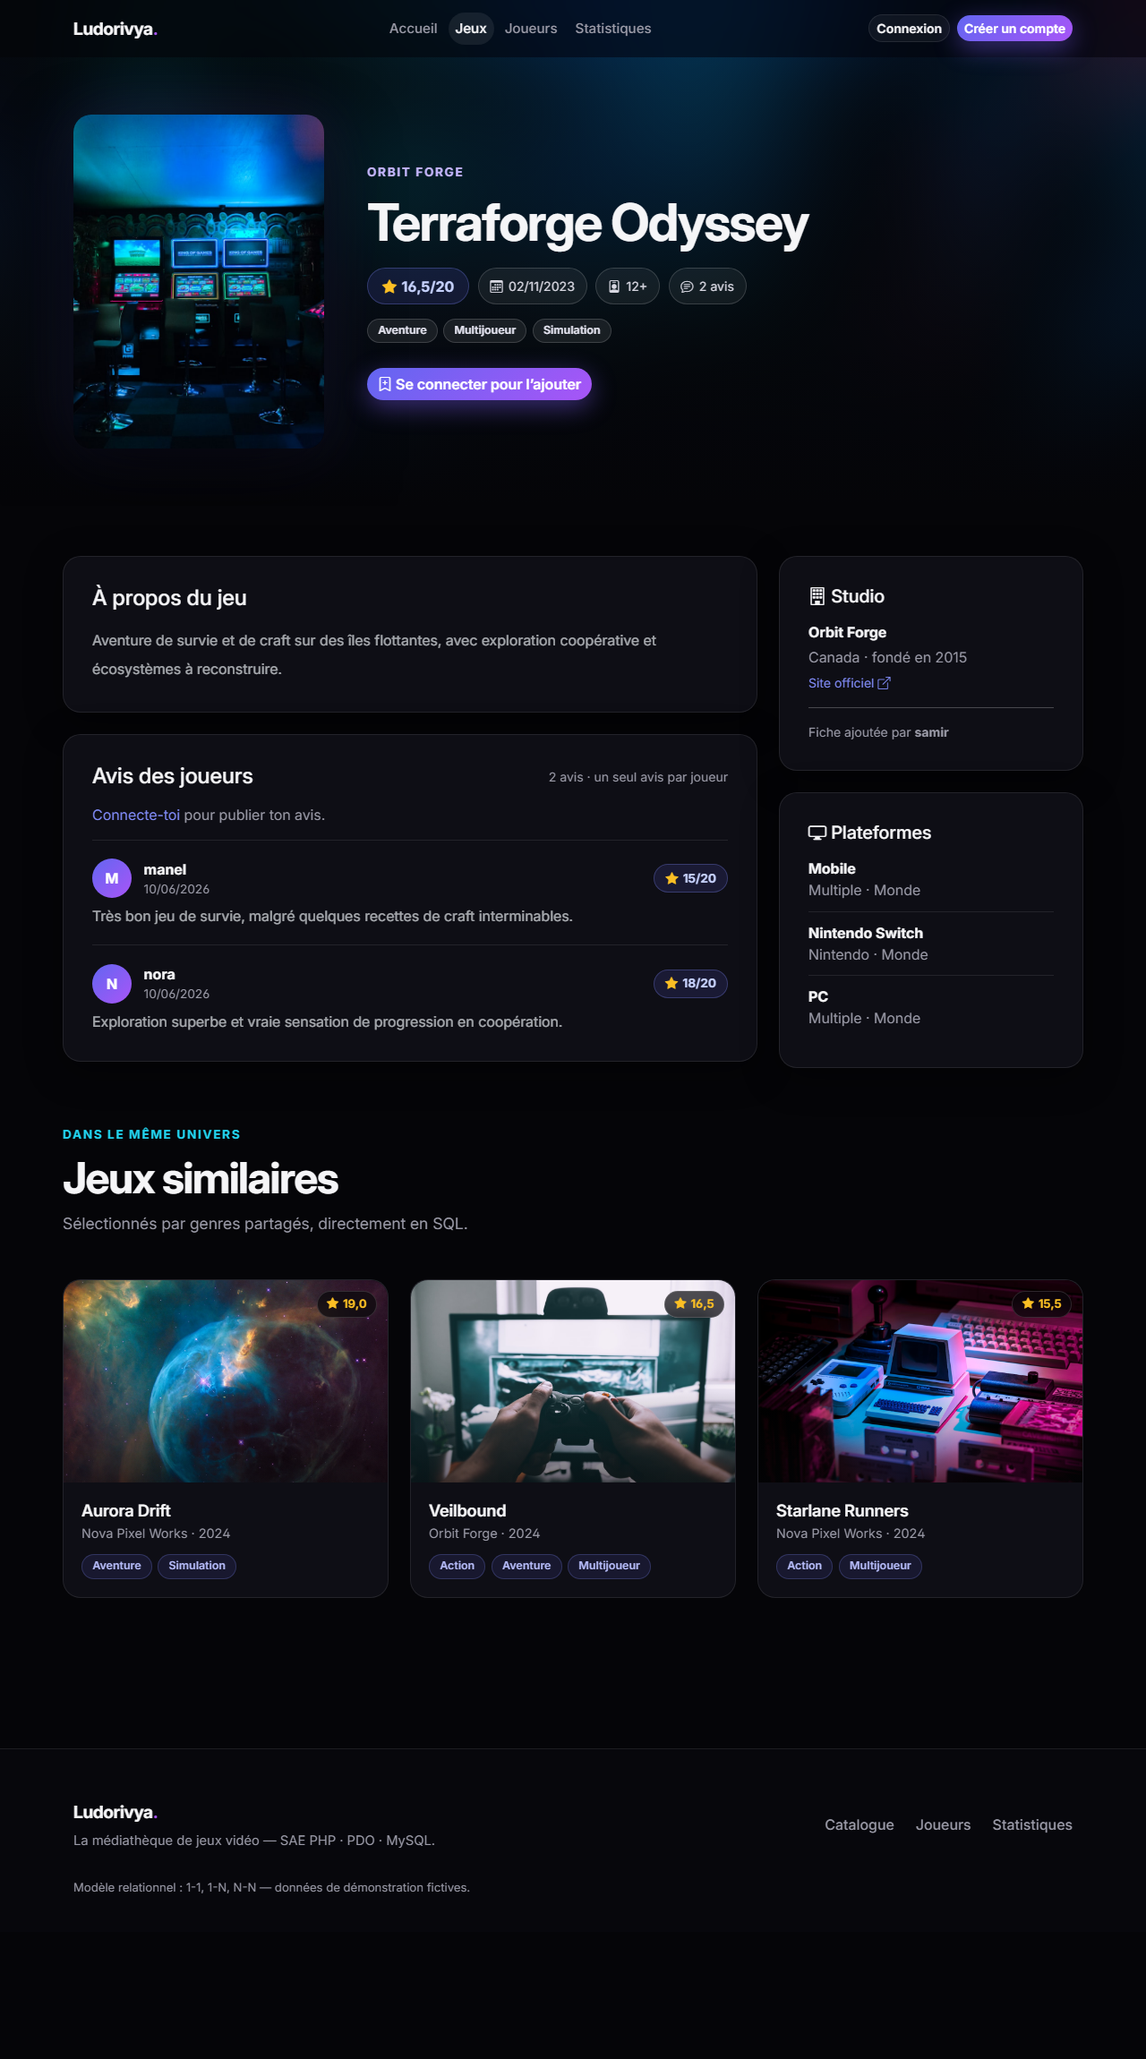
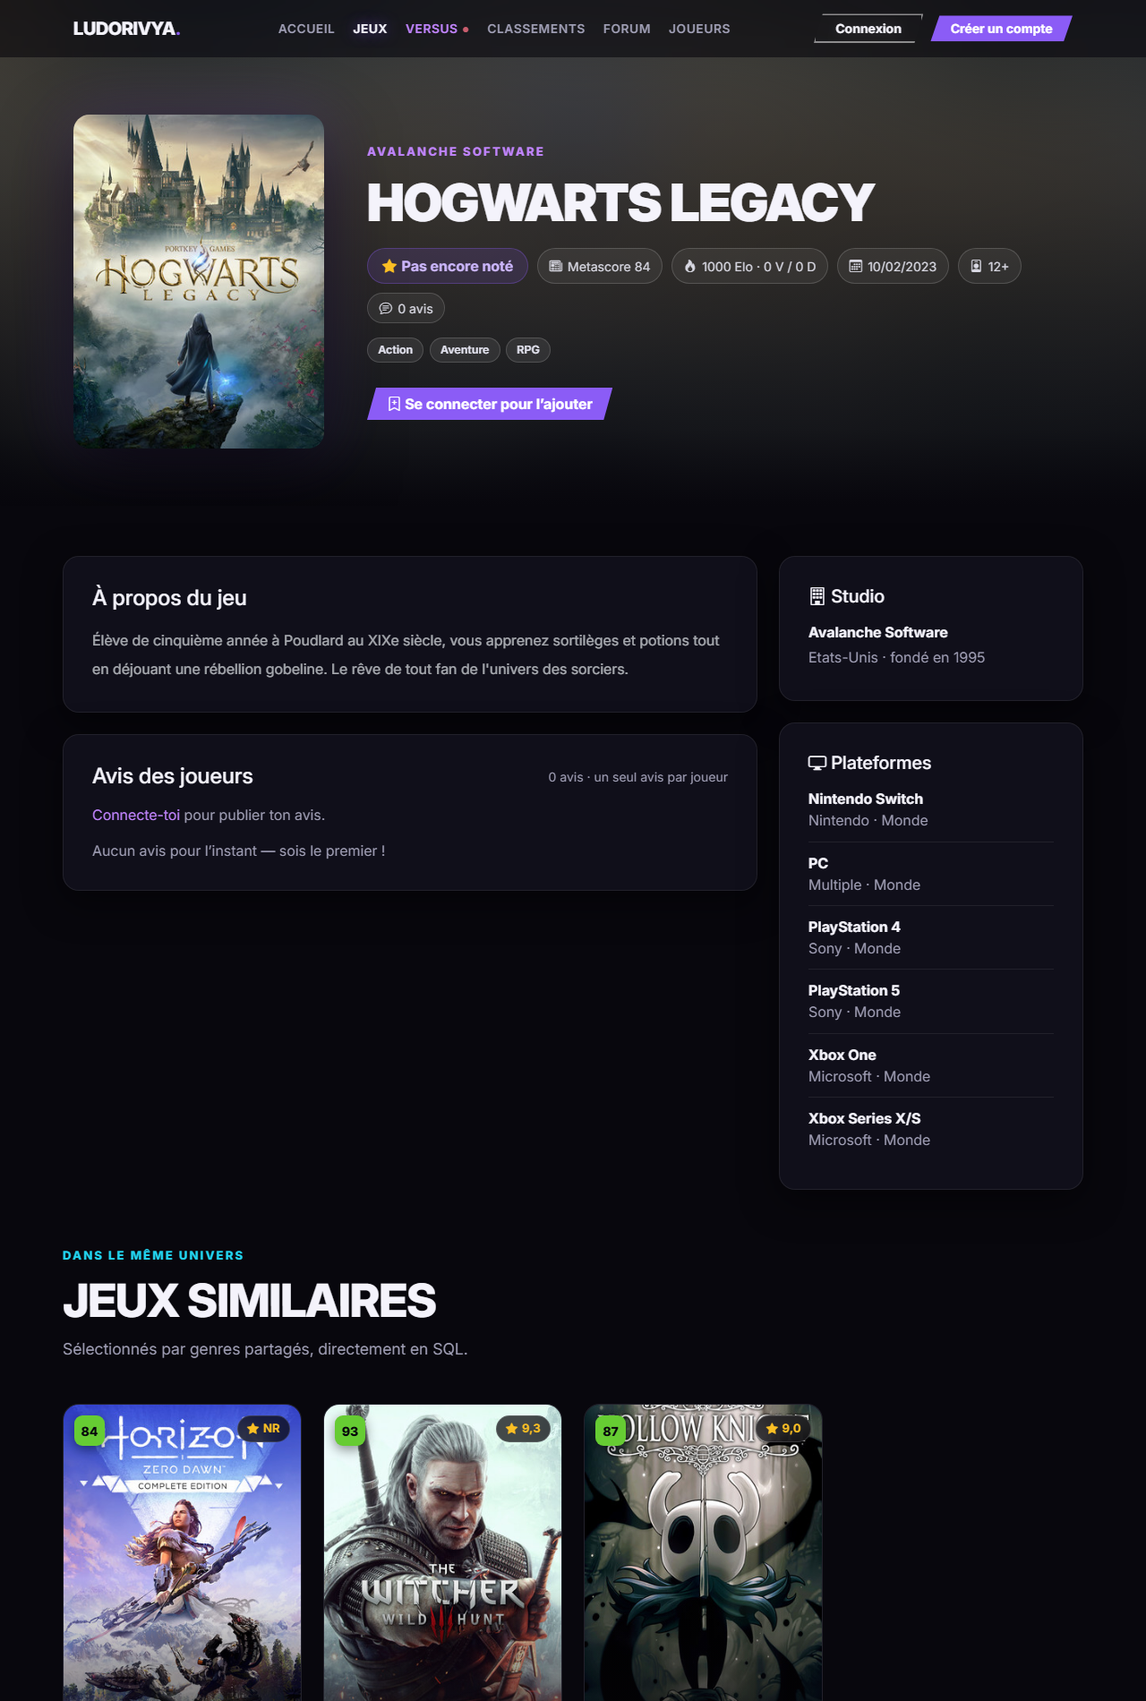
documentation et captures de la version arena

diff --git a/README.md b/README.md
@@ -2,7 +2,7 @@
 
 ![Bannière Ludorivya](docs/images/ludorivya-banner.svg)
 
-**Ludorivya** est une médiathèque de jeux vidéo : une application web dynamique en **PHP 8**, **PDO** et **MySQL/MariaDB**. Tout le monde peut explorer le catalogue ; les joueurs inscrits notent leurs jeux, construisent leur bibliothèque personnelle (statut, temps de jeu) et enrichissent eux-mêmes le catalogue.
+**Ludorivya** est le réseau de tes jeux vidéo : une application web dynamique en **PHP 8**, **PDO** et **MySQL/MariaDB**. Explore un catalogue de **plus de 115 vrais jeux**, note-les **en un clic avec des étoiles**, construis ta bibliothèque, débats sur le **forum**… et surtout, affronte la communauté dans le **mode Versus** : deux jeux face à face, ton vote fait évoluer leur classement Elo en direct.
 
 - **Dépôt** : <https://github.com/neorxprod/ludorivya>
 - **Auteur** : neorxprod
@@ -10,43 +10,82 @@
 
 ## Aperçu
 
-| Accueil | Catalogue |
+| Accueil | Mode Versus |
 | --- | --- |
-| ![Page d'accueil](docs/images/accueil.png) | ![Catalogue](docs/images/catalogue.png) |
+| ![Page d'accueil](docs/images/accueil.png) | ![Mode versus](docs/images/versus.png) |
 
-| Fiche jeu | Statistiques |
+| Catalogue | Classements |
 | --- | --- |
-| ![Fiche d'un jeu](docs/images/fiche-jeu.png) | ![Statistiques](docs/images/statistiques.png) |
+| ![Catalogue](docs/images/catalogue.png) | ![Classements](docs/images/classements.png) |
+
+| Fiche jeu | Forum |
+| --- | --- |
+| ![Fiche d'un jeu](docs/images/fiche-jeu.png) | ![Forum](docs/images/forum.png) |
 
 ## Fonctionnalités
 
+**Le mode Versus (le cœur du concept) :**
+
+- deux jeux tirés au sort s'affrontent, tu votes pour ton préféré ;
+- le **score Elo** des deux jeux est recalculé par le serveur dans une transaction (formule Elo, K = 32) ;
+- chaque vote rapporte **5 XP**, enchaîne les duels et fais grimper ta série ;
+- anti-triche : le serveur ne valide un vote que pour la paire qu'il a lui-même servie, avec un délai minimal entre deux votes ;
+- tout est animé : cartes qui claquent, deltas Elo flottants, compteurs, sans recharger la page (fetch + JSON).
+
 **Pour tous les visiteurs :**
 
-- catalogue avec recherche (titre, description, studio), filtres par **genre** et **plateforme**, tri et **pagination** ;
-- fiche détaillée de chaque jeu : studio, plateformes (avec région de sortie), genres, avis des joueurs ;
-- profils publics des joueurs et activité des bibliothèques (sans données privées) ;
-- statistiques en direct : répartitions par genre/plateforme, top 5 des jeux, joueurs les plus actifs.
+- catalogue de ~115 vrais jeux : jaquettes, **note presse (metascore)**, note des joueurs, studio, genres, plateformes ;
+- recherche, filtres par **genre** et **plateforme**, tri (récents / mieux notés / alphabétique), **pagination** ;
+- **classements** : Elo communautaire (podium), jeux les mieux notés, joueurs les plus actifs ;
+- fiche détaillée par jeu : description, bilan de duels (victoires/défaites), avis, **jeux similaires** (par genres partagés) ;
+- statistiques en direct issues de la base (répartitions, totaux).
+
+**Le forum (comme au bon vieux temps) :**
+
+- des sujets de discussion, optionnellement rattachés à un jeu du catalogue ;
+- réponses, suppression de ses propres messages, XP à la clé (+15 sujet, +5 réponse) ;
+- tri par dernière activité, compteur de réponses.
 
 **Pour les joueurs connectés :**
 
-- inscription / connexion sécurisées (mot de passe haché, anti force brute) ;
-- publier, modifier et supprimer **son** avis (un seul par jeu) ;
-- bibliothèque personnelle : ajouter un jeu, changer son statut (souhaité / en cours / terminé / abandonné), suivre ses heures de jeu, retirer un jeu ;
-- **ajouter un jeu au catalogue**, puis modifier ou supprimer **ses propres** fiches ;
+- inscription / connexion sécurisées, **XP et niveaux** (1 niveau tous les 250 XP) ;
+- noter un jeu **directement aux étoiles** (1 à 10), commentaire facultatif (+20 XP) ;
+- bibliothèque personnelle : statut (souhaité / en cours / terminé / abandonné), heures de jeu (+10 XP) ;
+- ajouter un jeu au catalogue (+30 XP), modifier/supprimer **ses propres** fiches ;
 - modifier son profil public (bio, plateforme préférée).
 
 ## Technologies
 
 | Partie | Technologie |
 | --- | --- |
-| Interface | HTML, CSS, Bootstrap 5 (chargé en local) + design system personnalisé |
-| Interactions | JavaScript vanilla : validation des formulaires, animations au scroll, compteurs |
+| Interface | HTML, CSS, Bootstrap 5 (local) + design system personnalisé (effets « flamme », liquid glass, particules) |
+| Interactions | JavaScript vanilla : versus en fetch/JSON, validation, animations au scroll, compteurs, cartes 3D |
 | Serveur | PHP 8.x |
 | Base de données | MySQL / MariaDB |
 | Accès BDD | PDO (requêtes préparées natives, transactions) |
 | Versionnage | Git + GitHub |
 
-Le site fonctionne **sans connexion internet** : Bootstrap, les icônes, la police Inter et les jaquettes de démonstration sont stockés en local dans `public/assets/`.
+Le site fonctionne **sans connexion internet** : Bootstrap, les icônes, la police Inter et les ~115 jaquettes sont stockés en local dans `public/assets/`.
+
+> Les jaquettes et noms de jeux appartiennent à leurs éditeurs respectifs et sont utilisés ici à des fins pédagogiques uniquement (projet universitaire non commercial). Les descriptions sont rédigées originales, et les metascores sont des approximations.
+
+## Comment le catalogue a été construit (le pipeline)
+
+Le catalogue n'est pas saisi à la main dans le SQL : il est **généré par un pipeline reproductible**, versionné dans [`database/dataset/`](database/dataset/) :
+
+1. **`games.json`** — le dataset source : pour chaque jeu, le titre réel, le studio (et son pays/année), la date de sortie, le PEGI, 1-3 genres, les plateformes, un metascore approximatif, une **description française originale** et l'**appid Steam** du jeu.
+2. **`fetch_covers.ps1`** — télécharge une seule fois les jaquettes officielles (600×900) depuis le **CDN public de Steam** (`cdn.cloudflare.steamstatic.com/steam/apps/<appid>/library_600x900.jpg`) vers `public/assets/img/covers/`. Le téléchargement sert aussi de **validation** : un appid faux ne renvoie pas d'image, et le jeu est écarté.
+3. **`build_seed.php`** — génère `database/schema.sql` complet : les 13 tables, les ~115 jeux avec leurs liaisons genres/plateformes, les comptes de démonstration, les avis, les sujets de forum, et une **simulation de 150 duels Elo** (graine aléatoire fixe → résultat reproductible, le favori au metascore gagne 70 % du temps) pour que le classement Versus soit crédible dès l'import.
+
+Pour régénérer la base de zéro :
+
+```bat
+cd database\dataset
+powershell -File fetch_covers.ps1
+php build_seed.php
+```
+
+L'application, elle, ne dépend **d'aucune API externe** : tout est servi en local depuis MySQL.
 
 ## Relations SQL demandées
 
@@ -60,10 +99,11 @@ Le sujet demande au minimum une relation 1-1, une relation 1-N et une relation N
 
 Le schéma va plus loin :
 
-- `games` ↔ `genres` (2e N-N, sert au filtre par genre) ;
-- `users` ↔ `games` via `library_entries` (N-N **porteuse d'attributs** : statut, heures) ;
+- `games` ↔ `genres` (2e N-N, filtre par genre + jeux similaires) ;
+- `users` ↔ `games` via `library_entries` (N-N **porteuse** : statut, heures) ;
 - `users` ↔ `games` via `reviews` (un avis par joueur et par jeu, garanti par `UNIQUE`) ;
-- `users` → `games` via `created_by` (autorisations : seul l'auteur d'une fiche peut la modifier/supprimer).
+- `users` ↔ `games` via `duels` (N-N porteuse **orientée** : vainqueur/perdant, alimente le classement Elo) ;
+- `users` → `games` via `created_by` (seul l'auteur d'une fiche peut la modifier/supprimer).
 
 ![Schéma relationnel](docs/images/schema-relations.svg)
 
@@ -82,7 +122,7 @@ Détails table par table : [docs/SCHEMA_RELATIONNEL.md](docs/SCHEMA_RELATIONNEL.
    C:\xampp\mysql\bin\mysql.exe -u root --default-character-set=utf8mb4 < database\schema.sql
    ```
 
-3. **Relier le projet à Apache** (lien symbolique, à lancer dans un terminal administrateur) :
+3. **Relier le projet à Apache** (lien symbolique, terminal administrateur) :
 
    ```bat
    mklink /J C:\xampp\htdocs\ludorivya "C:\chemin\vers\LUDORIVYA"
@@ -111,7 +151,8 @@ LUDORIVYA/
   config/
     database.example.php      <- modèle de configuration (le vrai est gitignoré)
   database/
-    schema.sql                <- création de la base + données de démonstration
+    schema.sql                <- création de la base + ~115 vrais jeux + 150 duels simulés
+    dataset/                  <- le pipeline du catalogue (games.json + scripts)
   docs/
     SCHEMA_RELATIONNEL.md     <- le schéma expliqué table par table
     BONUS_NOSQL.md            <- bonus : limites du relationnel + MongoDB
@@ -120,7 +161,11 @@ LUDORIVYA/
   public/                     <- racine web
     index.php                 <- accueil
     games.php                 <- catalogue (recherche, filtres, tri, pagination)
-    game.php                  <- fiche d'un jeu + avis + bibliothèque
+    game.php                  <- fiche d'un jeu + avis + bibliothèque + jeux similaires
+    versus.php / duel_store.php  <- mode versus (votes Elo en fetch/JSON)
+    rankings.php              <- classements (Elo, notes, joueurs)
+    forum.php / topic.php     <- forum (sujets + reponses)
+    topic_store.php / reply_store.php / topic_delete.php / reply_delete.php
     create.php / edit.php     <- formulaires d'ajout / modification d'un jeu
     game_store.php / game_update.php / game_delete.php
     review_store.php / review_delete.php
@@ -133,7 +178,7 @@ LUDORIVYA/
   src/
     bootstrap.php             <- session, CSRF, connexion PDO
     Database.php              <- connexion PDO centralisée
-    functions.php             <- helpers (validation, sécurité, rendu)
+    functions.php             <- helpers (validation, sécurité, XP/niveaux, rendu)
 ```
 
 Convention : chaque formulaire a sa page d'affichage (`page.php`) et son traitement POST séparé (`*_store.php`, `*_update.php`, `*_delete.php`).
@@ -141,14 +186,12 @@ Convention : chaque formulaire a sa page d'affichage (`page.php`) et son traitem
 ## Sécurité appliquée
 
 - **Requêtes préparées PDO partout** (`ATTR_EMULATE_PREPARES = false`) — aucune concaténation de données utilisateur dans le SQL.
-- **Jeton CSRF** vérifié (`hash_equals`) sur tous les formulaires POST, y compris la déconnexion.
-- Mots de passe : `password_hash()` / `password_verify()`, jamais stockés en clair, **anti force brute** (pause après 5 échecs).
-- Sessions durcies : cookie `HttpOnly` + `SameSite=Lax`, `session_regenerate_id()` après connexion et inscription.
-- Échappement HTML systématique avec `e()` (`htmlspecialchars`).
-- **Validation côté serveur** de toutes les entrées (types, bornes, longueurs, dates réelles, URLs, ids existants en base), même quand JavaScript valide déjà côté client.
-- Autorisations vérifiées côté serveur : on ne modifie que **ses** avis, **sa** bibliothèque, **ses** fiches de jeux.
-- Redirections restreintes aux pages internes (anti open redirect).
-- Erreurs techniques journalisées (`error_log`), jamais affichées aux visiteurs.
+- **Jeton CSRF** vérifié (`hash_equals`) sur tous les POST, y compris les votes du versus et la déconnexion.
+- **Serveur autoritaire sur le versus** : la paire de jeux est choisie et mémorisée côté serveur, le calcul Elo et l'XP sont faits côté serveur, délai minimal entre deux votes.
+- Mots de passe : `password_hash()` / `password_verify()`, **anti force brute** (pause après 5 échecs).
+- Sessions durcies : cookie `HttpOnly` + `SameSite=Lax`, `session_regenerate_id()` après connexion/inscription.
+- Échappement HTML systématique (`e()`), validation serveur de toutes les entrées, autorisations vérifiées côté serveur.
+- Redirections restreintes aux pages internes (anti open redirect), erreurs techniques journalisées jamais affichées.
 
 ## Vérification automatique
 
@@ -156,15 +199,18 @@ Convention : chaque formulaire a sa page d'affichage (`page.php`) et son traitem
 
 ## Bonus NoSQL
 
-[docs/BONUS_NOSQL.md](docs/BONUS_NOSQL.md) décrit un scénario de montée en charge (millions de jeux, milliards d'avis), identifie les requêtes du projet qui deviendraient coûteuses, et propose une alternative conceptuelle avec MongoDB (documents dénormalisés pour la recherche et les statistiques), sans implémentation.
+[docs/BONUS_NOSQL.md](docs/BONUS_NOSQL.md) décrit un scénario de montée en charge (millions de jeux, milliards d'avis et de votes versus), identifie les requêtes du projet qui deviendraient coûteuses, et propose une alternative conceptuelle avec MongoDB, sans implémentation.
 
 ## État du projet
 
-- [x] Base relationnelle (1-1, 1-N, 2× N-N, 2× N-N porteuses).
+- [x] Base relationnelle 13 tables (1-1, 1-N, 2× N-N, 3× N-N porteuses dont les duels, forum).
+- [x] Forum : sujets liés aux jeux, réponses, modération de ses messages.
+- [x] Notes aux étoiles en un clic, commentaire facultatif.
+- [x] Catalogue de ~115 vrais jeux (jaquettes locales, metascore, descriptions originales).
+- [x] Mode Versus : votes Elo en direct, XP, séries, anti-triche serveur.
+- [x] Classements : Elo (podium), notes, joueurs.
 - [x] CRUD complet : jeux, avis, bibliothèque, profil.
 - [x] Recherche, filtres par genre et plateforme, tri, pagination.
-- [x] Authentification sécurisée + CSRF sur tous les formulaires.
-- [x] Interface Bootstrap 5 + design system, fonctionne hors ligne.
-- [x] JavaScript : validation, animations au scroll, compteurs.
-- [x] Documentation (README, schéma, bonus NoSQL).
-- [x] CI de vérification syntaxique.
+- [x] Authentification sécurisée + CSRF partout.
+- [x] Design « gaming premium » : effets flamme, particules, cartes 3D, fonctionne hors ligne.
+- [x] Documentation (README, schéma, bonus NoSQL) + CI.

diff --git a/docs/SCHEMA_RELATIONNEL.md b/docs/SCHEMA_RELATIONNEL.md
@@ -2,9 +2,9 @@
 
 ## Objectif
 
-Ludorivya est une médiathèque de jeux vidéo : jeux, studios, plateformes, genres, avis des joueurs et bibliothèques personnelles.
+Ludorivya est le réseau de tes jeux vidéo : un catalogue de ~115 vrais jeux, des avis, des bibliothèques personnelles, et un **mode versus** où les votes de la communauté font évoluer un classement Elo.
 
-Le schéma complet est dans [`database/schema.sql`](../database/schema.sql) (10 tables).
+Le schéma complet est dans [`database/schema.sql`](../database/schema.sql) (13 tables), généré par le pipeline documenté dans [`database/dataset/`](../database/dataset/).
 
 ## Diagramme
 
@@ -17,6 +17,7 @@ games     (N) ---- (N) platforms  via game_platforms  <- N-N demandee (PK compos
 games     (N) ---- (N) genres     via game_genres     <- 2e N-N (filtrage)
 users     (N) ---- (N) games      via library_entries <- N-N porteuse (statut, heures)
 users     (N) ---- (N) games      via reviews         <- N-N porteuse (note, commentaire)
+users     (N) ---- (N) games      via duels           <- N-N porteuse double (vainqueur + perdant)
 users     (1) ---- (N) games      via created_by      <- qui a ajoute la fiche
 platforms (1) ---- (N) user_profiles                  <- plateforme preferee (FK)
 ```
@@ -38,12 +39,14 @@ Les jeux du catalogue.
 - `studio_id` clé étrangère **NOT NULL** vers `studios` (`ON DELETE RESTRICT` : impossible de supprimer un studio qui a encore des jeux).
 - `created_by` clé étrangère **NULL** vers `users` (`ON DELETE SET NULL`) : l'utilisateur qui a ajouté la fiche. Seul lui peut la modifier ou la supprimer.
 - `title`, `description`, `release_date`, `age_rating` (CHECK 3–18), `cover_url` (facultatif).
+- `metascore` (CHECK ≤ 100) : note presse approximative type Metacritic.
+- `elo` (défaut 1000) : score du classement communautaire, recalculé par le serveur à chaque duel du mode versus.
 
 **Relation 1-N** : un studio produit plusieurs jeux, chaque jeu a un studio principal.
 
 ### `users` et `user_profiles`
 
-- `users` : identité et connexion (`username` et `email` uniques, `password_hash` bcrypt).
+- `users` : identité et connexion (`username` et `email` uniques, `password_hash` bcrypt) + `xp` (gagnée via duels, avis et contributions ; le niveau est calculé en PHP : 1 niveau tous les 250 XP).
 - `user_profiles` : présentation publique (`bio`, `favorite_platform_id`).
 
 **Relation 1-1** : `user_profiles.user_id` est à la fois **clé primaire et clé étrangère** (PK partagée). C'est la forme la plus stricte du 1-1 : un utilisateur ne peut pas avoir deux profils.
@@ -75,6 +78,21 @@ La contrainte `UNIQUE (user_id, game_id)` garantit qu'un jeu n'apparaît qu'une 
 Avis des joueurs : note `rating` (CHECK 0–20) + `comment`.
 
 La contrainte `UNIQUE (game_id, user_id)` impose **un seul avis par joueur et par jeu** (modifiable via upsert).
+
+### `duels`
+
+Le mode versus : chaque ligne enregistre un vote « `winner_game_id` bat `loser_game_id` » émis par `user_id`.
+
+- Double clé étrangère vers `games` : c'est une relation N-N porteuse *orientée* (le sens vainqueur/perdant porte l'information).
+- `user_id` est en `ON DELETE SET NULL` : si un compte est supprimé, les statistiques des jeux (victoires/défaites) sont conservées.
+- Le score `elo` des deux jeux est mis à jour **dans la même transaction** que l'insertion du duel (formule Elo, K = 32).
+- Anti-triche : le serveur mémorise en session la paire qu'il a servie et n'accepte un vote que pour cette paire ; un délai minimal entre deux votes est imposé.
+
+### `topics` et `topic_replies` (forum)
+
+- `topics` : un sujet de discussion, créé par un utilisateur, **optionnellement rattaché à un jeu** (`game_id` NULL, `ON DELETE SET NULL` : le sujet survit si le jeu est supprimé).
+- `topic_replies` : relation **1-N** classique (un sujet a plusieurs réponses), `ON DELETE CASCADE` (supprimer un sujet emporte ses réponses).
+- Suppression réservée à l'auteur (`WHERE user_id` côté PHP).
 
 ## Choix d'intégrité
 

diff --git a/docs/BONUS_NOSQL.md b/docs/BONUS_NOSQL.md
@@ -8,6 +8,7 @@ Imaginons que Ludorivya devienne une grande plateforme publique :
 - 200 millions d'utilisateurs.
 - 10 milliards d'avis.
 - 50 milliards d'entrées de bibliothèque.
+- Des **millions de votes versus par heure** aux heures de pointe.
 - Filtres combinés : plateforme, genre, studio, note, année, popularité.
 
 ## Pourquoi le relationnel devient limitant
@@ -25,6 +26,7 @@ Exemples concrets tirés de ce projet, problématiques à grande échelle :
 - La requête du catalogue (`games.php`) : deux sous-requêtes agrégées (note moyenne, genres concaténés) **par ligne affichée** + deux `EXISTS` de filtrage sur les tables de liaison.
 - Le top 5 (`stats.php`) : `AVG` + `GROUP BY` + `HAVING` sur la totalité de la table `reviews` à chaque visite.
 - La recherche (`LIKE` sur titre, description et nom de studio joints) sur des millions de jeux.
+- Le mode versus (`duel_store.php`) : chaque vote fait un `UPDATE games SET elo = ...` — à des millions de votes/heure, les jeux populaires deviennent des **lignes chaudes** (contention de verrous sur les mêmes enregistrements), et la table `duels` grossit sans fin.
 
 ## Alternative NoSQL conceptuelle (sans implémentation)
 
@@ -41,6 +43,7 @@ Une solution réaliste serait d'utiliser **MongoDB en complément**, sans rempla
 - Des **documents de recherche dénormalisés** : un document par jeu, qui embarque déjà studio, plateformes, genres et note moyenne — le catalogue se lit alors **sans aucune jointure**.
 - Des **snapshots de statistiques** précalculés (tops, compteurs) régénérés périodiquement.
 - Les avis récents, dénormalisés avec le pseudo de l'auteur.
+- Les **votes versus** dans un journal append-only (ou des compteurs distribués) : on absorbe les pics d'écriture, et le classement Elo est recalculé par lots toutes les quelques secondes au lieu d'un UPDATE par vote.
 
 Exemple de document MongoDB pour la recherche :
 

diff --git a/docs/PLAN_ACTION.md b/docs/PLAN_ACTION.md
@@ -2,7 +2,7 @@
 
 ## Concept
 
-**Ludorivya** : une médiathèque de jeux vidéo. Catalogue consultable par tous, et pour les joueurs connectés : avis (un par jeu), bibliothèque personnelle (statut + temps de jeu) et contribution au catalogue.
+**Ludorivya** : le réseau de tes jeux vidéo. Un catalogue de vrais jeux consultable par tous, et pour les joueurs connectés : le **mode versus** (votes qui font évoluer un classement Elo, XP et niveaux), des avis (un par jeu), une bibliothèque personnelle (statut + temps de jeu) et la contribution au catalogue.
 
 ## Objectifs techniques
 
